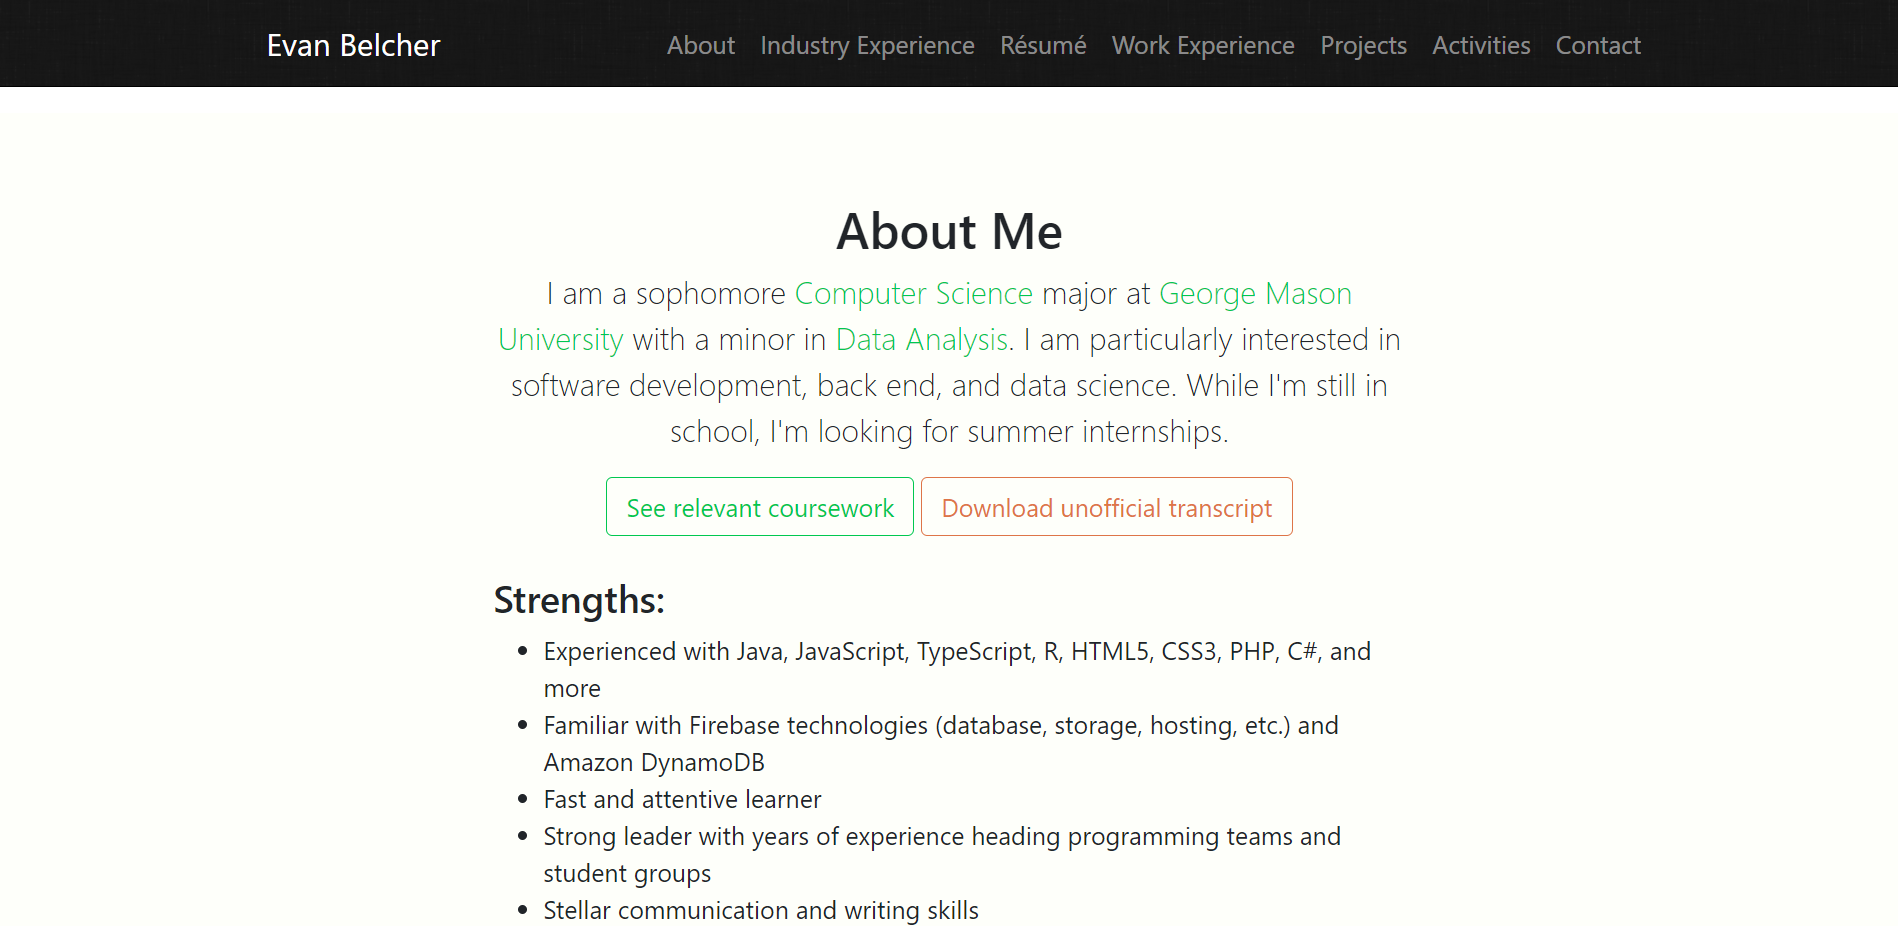
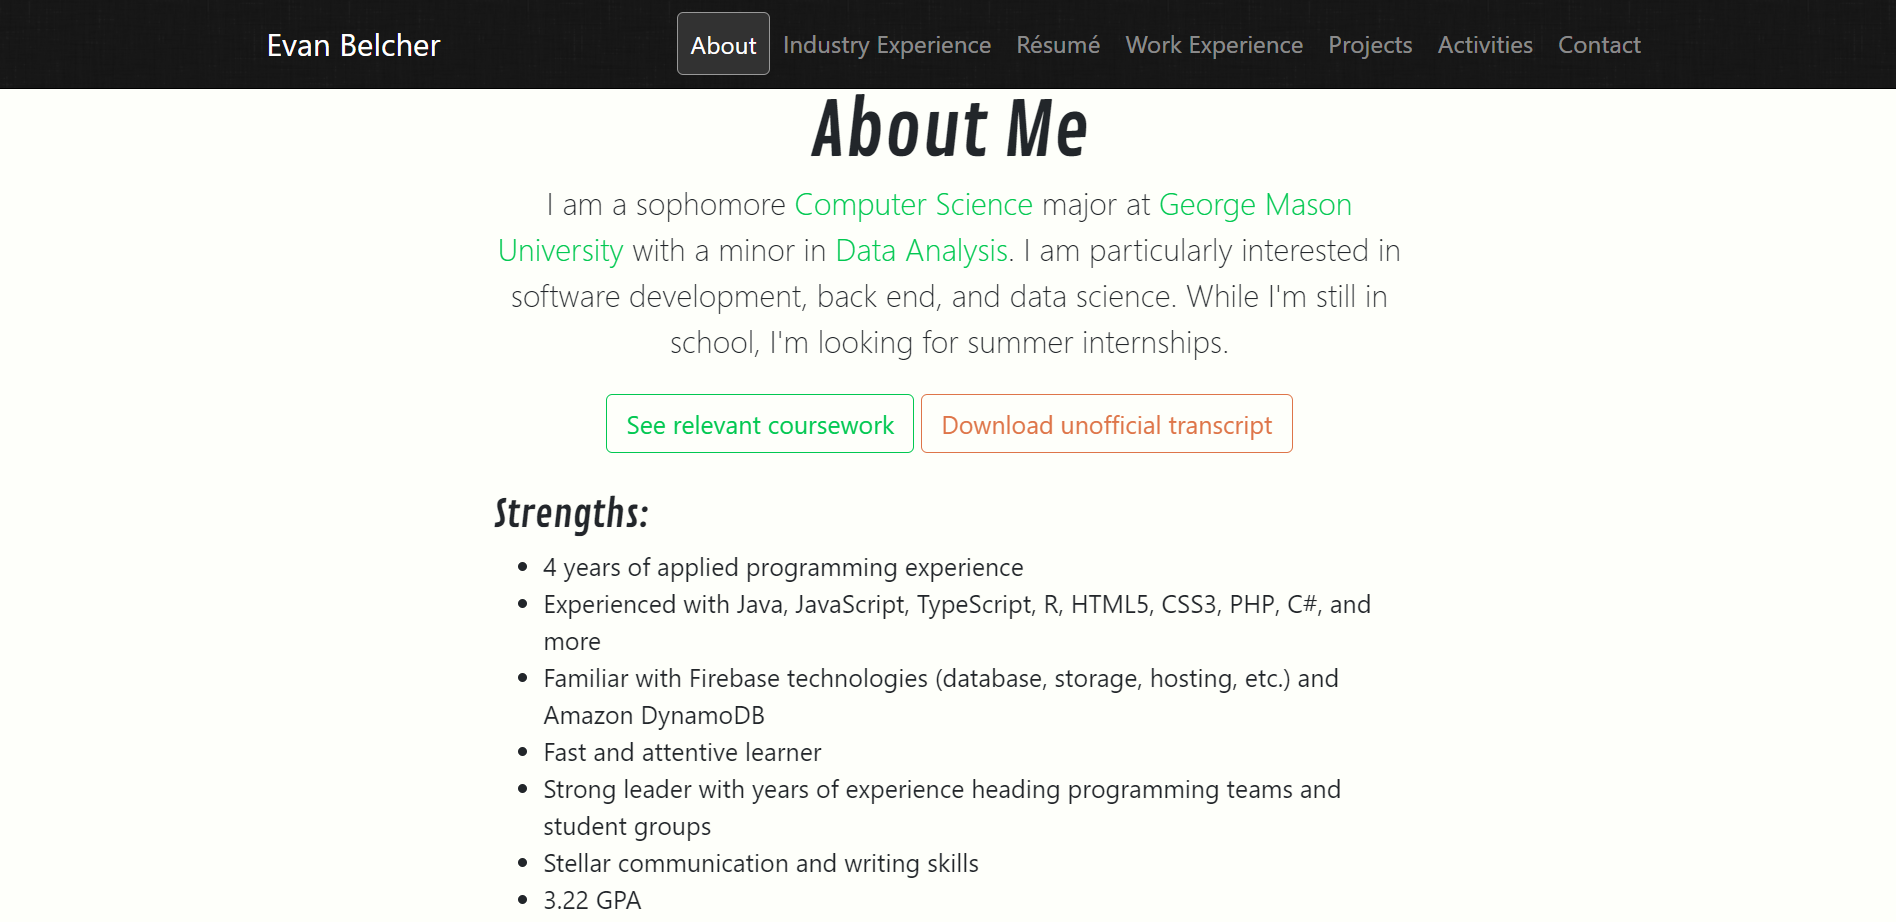
Added typography updated evanwebsite image

diff --git a/index.html b/index.html
@@ -83,6 +83,8 @@
 	<script src="https://cdnjs.cloudflare.com/ajax/libs/modernizr/2.8.3/modernizr.min.js" integrity="sha256-0rguYS0qgS6L4qVzANq4kjxPLtvnp5nn2nB5G1lWRv4="
 	 crossorigin="anonymous"></script>
 
+	<link href="https://fonts.googleapis.com/css?family=Contrail+One" rel="stylesheet">
+
 	<link href="css/style.css" rel="stylesheet">
 </head>
 
@@ -169,17 +171,17 @@
 						<a href="https://catalog.gmu.edu/colleges-schools/engineering/statistics/data-analysis-minor/#text" target="_blank">Data Analysis</a>. I am particularly interested in software development, back end, and data science. While I'm still
 						in school, I'm looking for summer internships.</p>
 					<div class="text-center">
-						<button class="btn btn-outline-primary" type="button" data-toggle="modal" data-target="#coursesModal">
+						<button class="btn btn-outline-primary" type="button" data-toggle="modal" data-target="#coursesModal" style="margin-top: 5px;">
 							<span>See relevant coursework</span>
 						</button>
-						<a class="btn btn-outline-secondary" href="docs/Evan Belcher Unofficial Transcript Fall 2017.pdf" target="_blank" download>
+						<a class="btn btn-outline-secondary" href="docs/Evan Belcher Unofficial Transcript Fall 2017.pdf" target="_blank" download style="margin-top: 5px;">
 							<span>Download unofficial transcript</span>
 						</a>
 					</div>
 					<h4>
 						<br>Strengths: </h4>
 					<ul>
-
+						<li><script>document.write(new Date().getFullYear() - 2013);</script> years of applied programming experience</li>
 						<li>Experienced with Java, JavaScript, TypeScript, R, HTML5, CSS3, PHP, C#, and more</li>
 						<li>Familiar with Firebase technologies (database, storage, hosting, etc.) and Amazon DynamoDB</li>
 						<li>Fast and attentive learner</li>
@@ -253,7 +255,7 @@
 		</div>
 	</div>
 
-	<section id="bg-devfest" class="bg-img" style="height: 500px; background: url('img/devfestdc_winners_crop_logo-bg.jpg'); background-size: cover; background-attachment: fixed; background-position: 25% 50%;">
+	<section id="bg-devfest" class="bg-img" style="height: 500px; background: #27252c; background: url('img/devfestdc_winners_crop_logo-bg.jpg'); background-size: cover; background-attachment: fixed; background-position: 25% 50%;">
 		<div class="img-overlay"></div>
 	</section>
 
@@ -352,7 +354,7 @@
 		</div>
 	</section>
 
-	<section id="resume" class="bg-img" style="height: 300px; background: url('img/stressed_linen.png'); padding-top: 40px;">
+	<section id="resume" class="bg-img" style="height: 300px; background: #27252c;background: url('img/stressed_linen.png'); padding-top: 40px;">
 		<div class="container" style="height:100%;">
 			<div class="row">
 				<div class="col-lg-8 mx-auto">
@@ -415,7 +417,7 @@
 		</div>
 	</section>
 
-	<section id="bg-coding" class="bg-img" style="height: 500px; background: url('img/coding-bg.jpg'); background-size: cover; background-attachment: fixed; background-position: 60% 0%;">
+	<section id="bg-coding" class="bg-img" style="height: 500px; background: #27252c;background: url('img/coding-bg.jpg'); background-size: cover; background-attachment: fixed; background-position: 60% 0%;">
 		<div class="img-overlay"></div>
 	</section>
 
@@ -426,7 +428,7 @@
 					<h2 class="text-center">Projects</h2>
 				</div>
 			</div>
-			<div class="row justify-content-center">
+			<div class="row justify-content-center" style="padding-top: 30px;">
 				<div id="projectsCarousel" class="carousel slide" data-ride="carousel">
 					<ol class="carousel-indicators">
 						<li data-target="#projectsCarousel" data-slide-to="0" class="active"></li>
@@ -536,7 +538,7 @@
 		</div>
 	</div>
 
-	<section id="bg-activies" class="bg-img" style="height: 500px; background: url('img/msn-bg.jpg'); background-size: cover; background-attachment: fixed; background-position: 85% 60%;">
+	<section id="bg-activies" class="bg-img" style="height: 500px; background: #27252c; background: url('img/msn-bg.jpg'); background-size: cover; background-attachment: fixed; background-position: 85% 60%;">
 		<div class="img-overlay"></div>
 	</section>
 
@@ -623,7 +625,6 @@
 		<div class="container">
 			<div class="row">
 				<div class="col-md-12 text-center">
-					<!-- <h3>On the web at</h3> -->
 					<ul class="list-inline social-buttons animated fadeIn">
 						<!-- LinkedIn Button -->
 						<li class="list-inline-item">
@@ -758,35 +759,35 @@
 			$('#downarrow').addClass('animated fadeIn');
 
 			$('section .container').waypoint(function (direction) {
-				// $(this.element.id).addClass('animated zoomIn');
-				// console.log(this.element.parentNode);
 				$(`#${this.element.parentNode.id} .container`).css('opacity', 1);
 				$(`#${this.element.parentNode.id} .container`).addClass('animated zoomIn');
 			}, {
 					offset: '95%'
-			});
+				});
 
 			$('#resumebutton').waypoint(function (direction) {
 				$('#resumebutton').addClass('animated infinite pulse');
 			}, {
 					offset: '75%'
-			});
+				});
 
-			$('.card').waypoint(function(direction){
+			$('.card').waypoint(function (direction) {
 				$(`#${this.element.id}`).css('opacity', 1);
 				$(`#${this.element.id}`).addClass('animated fadeInLeft');
 			}, {
-				offset: '75%'
-			});
+					offset: '75%'
+				});
 		});
 
 		$('a[href^="#"]').bind('click', function () {
 			let anchor = $(this);
-			$('html, body').stop().animate({
-				scrollTop: $(anchor.attr('href')).offset().top
-			}, 1500, 'easeInOutExpo');
-			event.preventDefault();
-			window.location.hash = anchor.attr('href');
+			if (anchor.attr('href') != '#projectsCarousel') {
+				$('html, body').stop().animate({
+					scrollTop: $(anchor.attr('href')).offset().top
+				}, 1500, 'easeInOutExpo');
+				event.preventDefault();
+				window.location.hash = anchor.attr('href');
+			}
 		});
 	</script>
 </body>

diff --git a/css/style.css b/css/style.css
@@ -10,12 +10,12 @@
 }
 
 #header{
-	/* background: linear-gradient(#212529, white); */
+	background: #27252c;
 	background: url(../img/stressed_linen.png);
-	/* background-attachment: fixed; */
 }
 
 #header{
+	background: #27252c;
 	background-image: url(../img/header-bg.png);
 	background-size: cover;
 	background-attachment: fixed;
@@ -32,7 +32,7 @@
 
 section:not(.bg-img){
 	margin-top: -40px;
-	padding-top: 70px;
+	padding-top: 80px;
 	padding-bottom: 30px;
 }
 
@@ -60,17 +60,16 @@ body{
 }
 
 .carousel-control-prev span, .carousel-control-next span{
-	background-color: black;
+	background: #27252c;
 	padding: 20px;
 	padding-left: 50px;
 	border-radius: 20%;
-	/* color: black; */
 }
 
 .carousel-inner{
 	height: 600px;
 	min-width: 600px;
-	background: black;
+	background: #27252c;
 }
 
 .carousel-caption{
@@ -118,6 +117,7 @@ ul.social-buttons li a{
 } */
 
 .navbar{
+	background: #27252c;
 	background: rgba(0,0,0,0.3);
 	border-bottom: 1px solid black;
 	white-space: nowrap;
@@ -157,10 +157,6 @@ html, body{
 	}
 }
 
-.card:nth-child(even){
-	background: red;
-}
-
 .bg-light{
 	background: #fefffa !important;
 	color: #212529;
@@ -174,23 +170,6 @@ html, body{
 .bg-dark h2{
 	color: white;
 }
-
-/* a{
-	color: #eb8255;
-}
-
-a:hover{
-	color: #eb8255;
-}
-
-.btn-outline-primary{
-	border-color: #00c850;
-	color: #00c850;
-}
-
-.btn-outline-primary:hover{
-	background-color: #00c850;
-} */
 
 a{
 	color: #00c850;
@@ -227,6 +206,7 @@ a:hover{
 }
 
 footer{
+	background: #27252c;
 	background: url(../img/stressed_linen.png);
 	color: white;
 }
@@ -274,4 +254,28 @@ footer li a:hover{
 	#header-center{
 		padding-top: 20vh;
 	}
+}
+
+h1, h2, h3, h4{
+	font-family: 'Contrail One', sans-serif;
+	/* font-size: 3em; */
+	/* font-weight: 800; */
+}
+
+h1{
+	font-size: 2em;
+}
+
+h2{
+	font-size: 3em;
+	line-height: 0.9em;
+}
+
+h4 small{
+	font-family: "Segoe UI",Roboto,"Helvetica Neue",Arial,sans-serif;
+	font-size: 0.8em;
+}
+
+button{
+	font-family: "Segoe UI",Roboto,"Helvetica Neue",Arial,sans-serif;
 }
